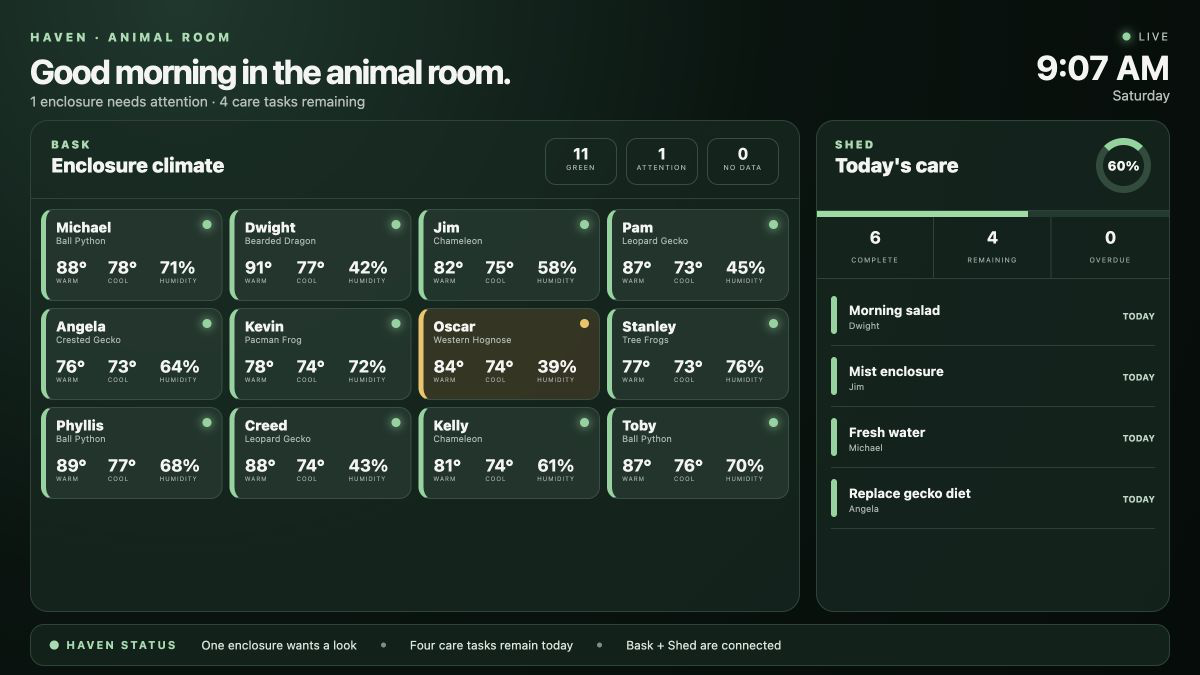
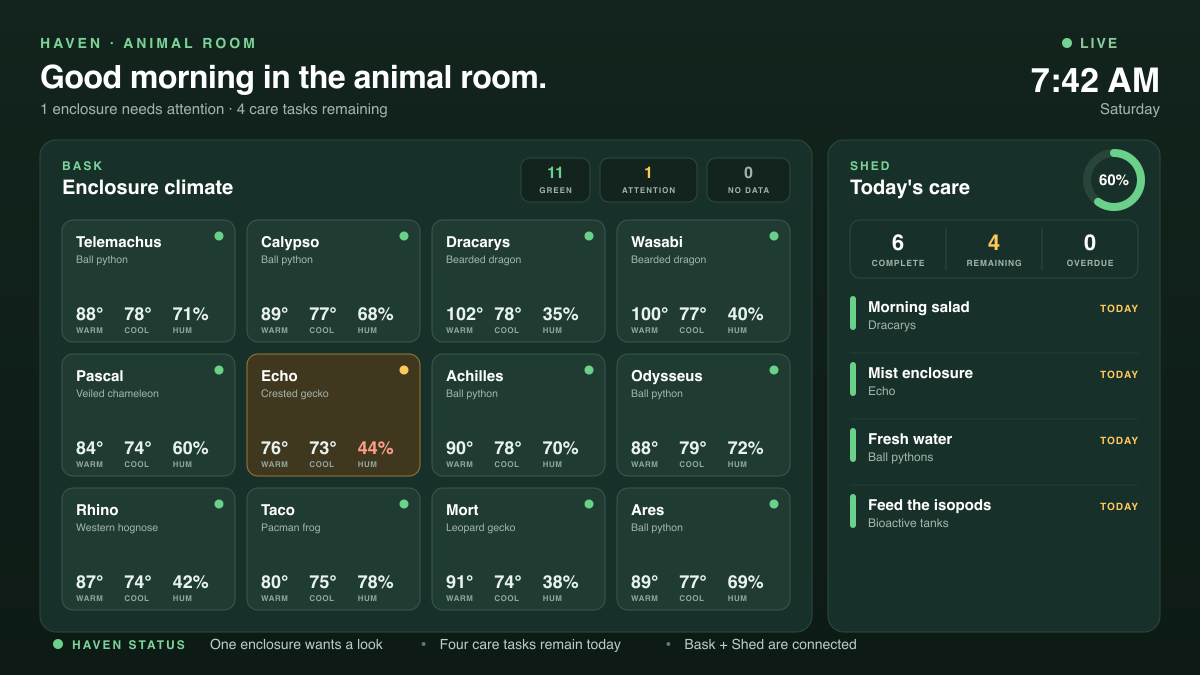
Feature the real animals in the Haven card and hero
Regenerate the social card and align the page hero so the shared
link preview and the page show the same real collection and the same
room status, instead of a separate demo cast.

diff --git a/site/index.html b/site/index.html
@@ -96,26 +96,27 @@
         <div class="dashboard-shell" aria-label="Haven combined dashboard preview">
           <div class="browser-bar"><i></i><i></i><i></i><span class="browser-url">haven.local</span></div>
           <div class="dashboard">
-            <div class="dash-top"><div><div class="panel-label">Animal room</div><h2>Good morning. Everything is on track.</h2></div><span class="live">Live</span></div>
+            <div class="dash-top"><div><div class="panel-label">Animal room</div><h2>Good morning in the animal room.</h2></div><span class="live">Live</span></div>
             <div class="panel">
               <div class="panel-head"><div><div class="panel-label">Bask</div><div class="panel-title">Enclosure climate</div></div><span class="count">5 green · 1 attention</span></div>
               <div class="climate-grid">
-                <div class="enclosure"><i class="dot"></i><div class="animal">Telemachus</div><div class="species">Ball python</div><div class="metrics"><div class="metric"><b>88°</b><span>Warm</span></div><div class="metric"><b>78°</b><span>Cool</span></div><div class="metric"><b>72%</b><span>Humidity</span></div></div></div>
+                <div class="enclosure"><i class="dot"></i><div class="animal">Telemachus</div><div class="species">Ball python</div><div class="metrics"><div class="metric"><b>88°</b><span>Warm</span></div><div class="metric"><b>78°</b><span>Cool</span></div><div class="metric"><b>71%</b><span>Humidity</span></div></div></div>
                 <div class="enclosure"><i class="dot"></i><div class="animal">Calypso</div><div class="species">Ball python</div><div class="metrics"><div class="metric"><b>89°</b><span>Warm</span></div><div class="metric"><b>77°</b><span>Cool</span></div><div class="metric"><b>68%</b><span>Humidity</span></div></div></div>
-                <div class="enclosure"><i class="dot"></i><div class="animal">Dracarys</div><div class="species">Bearded dragon</div><div class="metrics"><div class="metric"><b>91°</b><span>Warm</span></div><div class="metric"><b>78°</b><span>Cool</span></div><div class="metric"><b>42%</b><span>Humidity</span></div></div></div>
-                <div class="enclosure"><i class="dot"></i><div class="animal">Pascal</div><div class="species">Veiled chameleon</div><div class="metrics"><div class="metric"><b>82°</b><span>Warm</span></div><div class="metric"><b>75°</b><span>Cool</span></div><div class="metric"><b>55%</b><span>Humidity</span></div></div></div>
-                <div class="enclosure"><i class="dot"></i><div class="animal">Echo</div><div class="species">Crested gecko</div><div class="metrics"><div class="metric"><b>76°</b><span>Warm</span></div><div class="metric"><b>73°</b><span>Cool</span></div><div class="metric"><b>64%</b><span>Humidity</span></div></div></div>
-                <div class="enclosure attn"><i class="dot"></i><div class="animal">Rhino</div><div class="species">Western hognose</div><div class="metrics"><div class="metric"><b>84°</b><span>Warm</span></div><div class="metric"><b>74°</b><span>Cool</span></div><div class="metric"><b>—</b><span>Sensor</span></div></div></div>
+                <div class="enclosure"><i class="dot"></i><div class="animal">Dracarys</div><div class="species">Bearded dragon</div><div class="metrics"><div class="metric"><b>102°</b><span>Warm</span></div><div class="metric"><b>78°</b><span>Cool</span></div><div class="metric"><b>35%</b><span>Humidity</span></div></div></div>
+                <div class="enclosure"><i class="dot"></i><div class="animal">Pascal</div><div class="species">Veiled chameleon</div><div class="metrics"><div class="metric"><b>84°</b><span>Warm</span></div><div class="metric"><b>74°</b><span>Cool</span></div><div class="metric"><b>60%</b><span>Humidity</span></div></div></div>
+                <div class="enclosure attn"><i class="dot"></i><div class="animal">Echo</div><div class="species">Crested gecko</div><div class="metrics"><div class="metric"><b>76°</b><span>Warm</span></div><div class="metric"><b>73°</b><span>Cool</span></div><div class="metric"><b>44%</b><span>Humidity</span></div></div></div>
+                <div class="enclosure"><i class="dot"></i><div class="animal">Rhino</div><div class="species">Western hognose</div><div class="metrics"><div class="metric"><b>87°</b><span>Warm</span></div><div class="metric"><b>74°</b><span>Cool</span></div><div class="metric"><b>42%</b><span>Humidity</span></div></div></div>
               </div>
             </div>
             <div class="panel">
-              <div class="panel-head"><div><div class="panel-label">Shed</div><div class="panel-title">Today’s care</div></div><span class="count">67% done</span></div>
-              <div class="care-stats"><div class="care-stat"><b>6</b><span>Complete</span></div><div class="care-stat remaining"><b>3</b><span>Remaining</span></div><div class="care-stat"><b>0</b><span>Overdue</span></div></div>
+              <div class="panel-head"><div><div class="panel-label">Shed</div><div class="panel-title">Today’s care</div></div><span class="count">60% done</span></div>
+              <div class="care-stats"><div class="care-stat"><b>6</b><span>Complete</span></div><div class="care-stat remaining"><b>4</b><span>Remaining</span></div><div class="care-stat"><b>0</b><span>Overdue</span></div></div>
               <div class="task"><i class="check"></i><div><b>Morning salad</b><span>Dracarys</span></div><span class="due">Today</span></div>
-              <div class="task"><i class="check"></i><div><b>Mist enclosure</b><span>Wasabi</span></div><span class="due">Today</span></div>
+              <div class="task"><i class="check"></i><div><b>Mist enclosure</b><span>Echo</span></div><span class="due">Today</span></div>
               <div class="task"><i class="check"></i><div><b>Fresh water</b><span>Ball pythons</span></div><span class="due">Today</span></div>
+              <div class="task"><i class="check"></i><div><b>Feed the isopods</b><span>Bioactive tanks</span></div><span class="due">Today</span></div>
             </div>
-            <div class="ticker"><strong>Room status</strong><span>One enclosure is waiting for fresh sensor data</span><i></i><span>Three care tasks remain today</span><i></i><span>All other enclosures are green</span></div>
+            <div class="ticker"><strong>Room status</strong><span>One enclosure wants a look</span><i></i><span>Four care tasks remain today</span><i></i><span>Bask + Shed are connected</span></div>
           </div>
         </div>
       </div>
